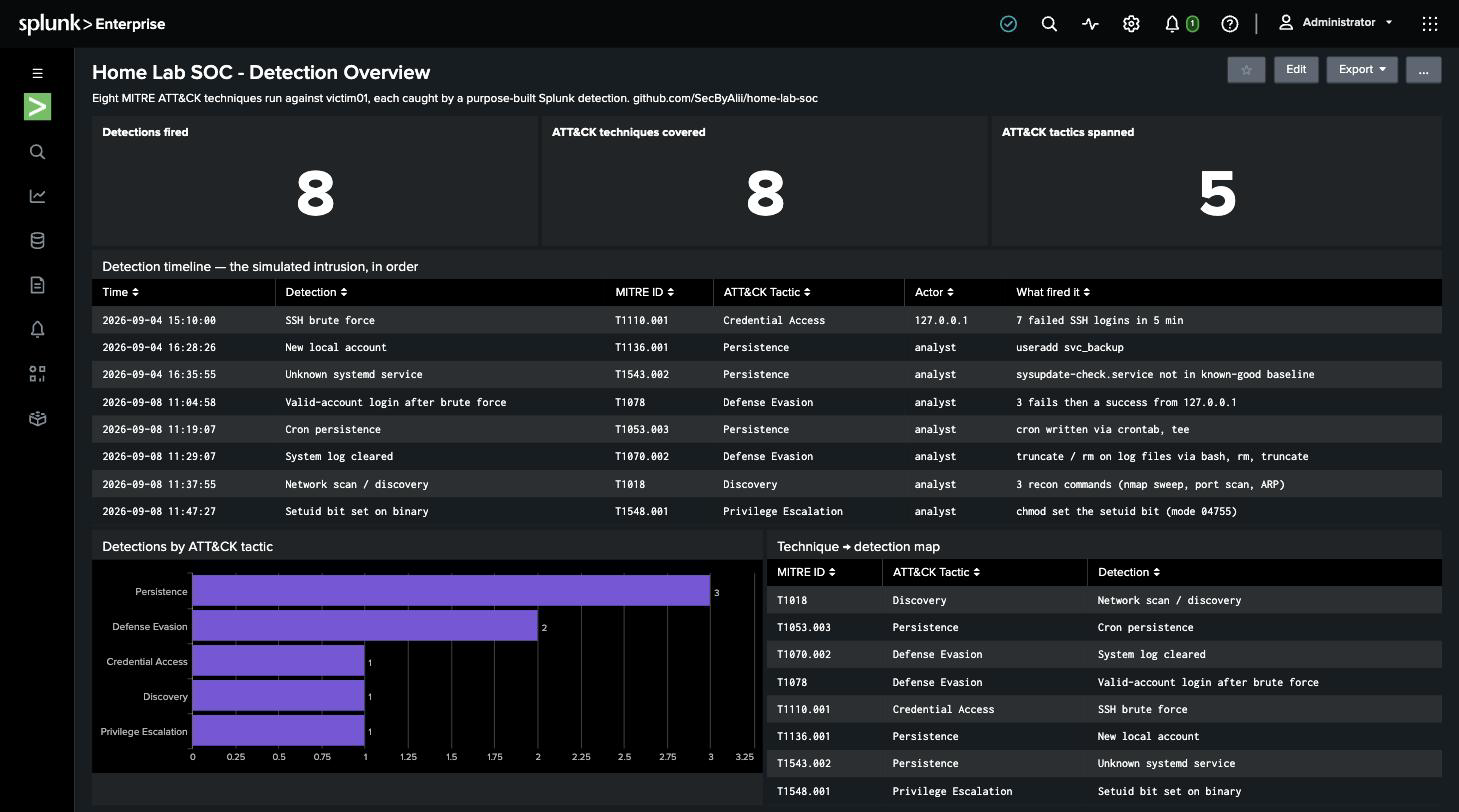
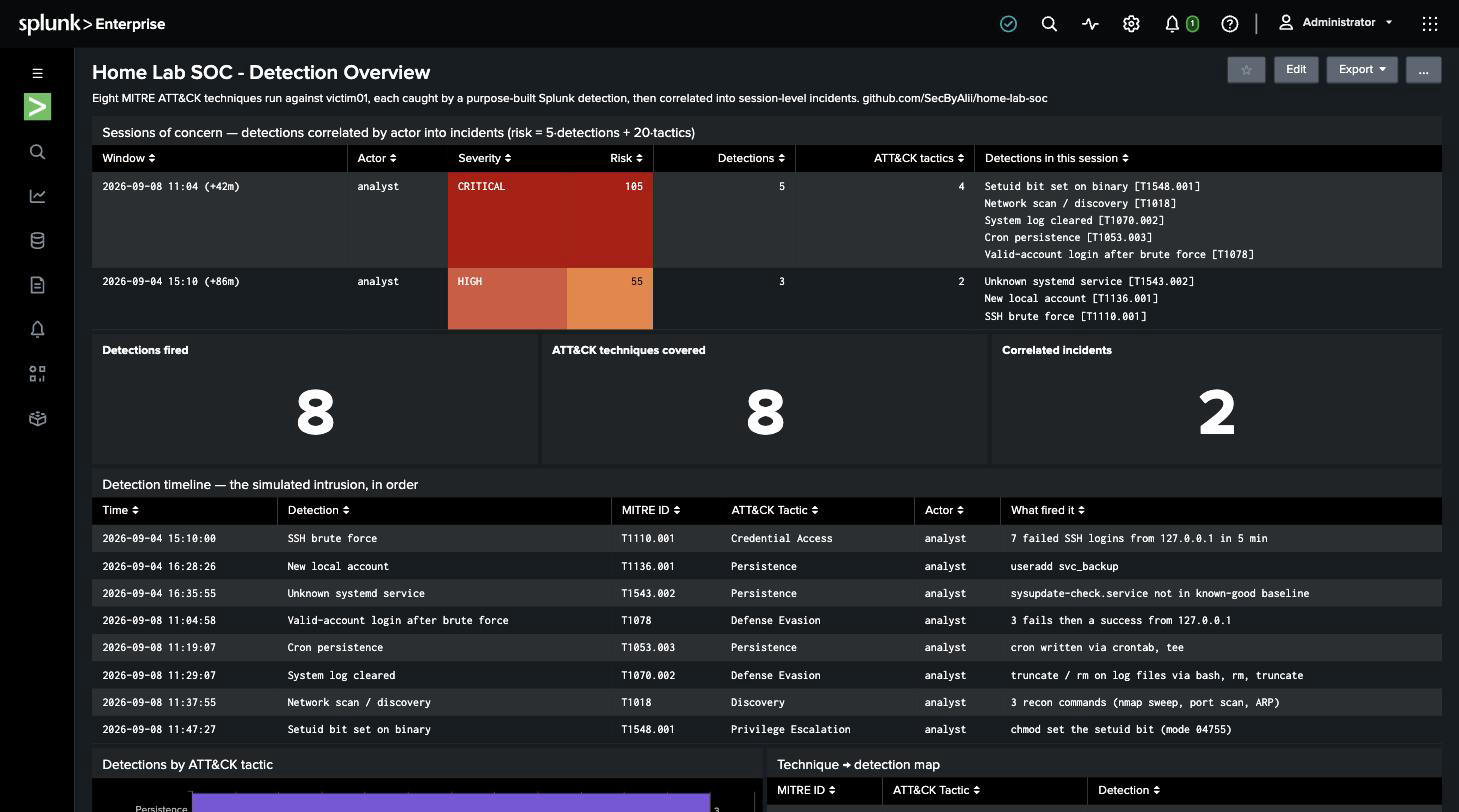
Add session-level correlation layer
Two macros in dashboards/macros.conf: soc_detections normalises all 8 detections to
one row each; soc_incidents groups them by actor into 90-min sessions and scores each
5*detections + 20*distinct ATT&CK tactics. Against the lab data the 8 raw detections
collapse into 2 scored incidents (CRITICAL 5-detection chain, HIGH 3-detection one),
shown as a new Sessions of concern panel at the top of the dashboard. Brute-force
detection re-keyed onto the targeted account so auth.log and auditd activity join into
one incident. Full design notes in detections/session-correlation.md.

Claude-Session: https://claude.ai/code/session_01Y2KUDnJzRMMDK5Fm9YPC8J

diff --git a/detections/session-correlation.md b/detections/session-correlation.md
@@ -1,0 +1,92 @@
+# Correlation layer — detections → session-level incidents
+
+**What it does:** rolls the eight single-signal detections up into per-actor sessions and
+scores each session by how much of the ATT&CK matrix it touches. Three brute-force
+alerts and a new-account alert from one login session aren't four things to triage —
+they're one intrusion.
+
+**Depends on:** the eight detections in this folder, exposed through the
+`` `soc_detections` `` macro (`dashboards/macros.conf`), which normalises every
+detection to one row: `_time`, `sig` (`"Name [Txxxx]"`), `detection`, `mitre`,
+`tactic`, `actor`, `detail`.
+
+## The macros
+
+```
+`soc_detections`   → one row per detection hit across all 8 techniques
+`soc_incidents`    → `soc_detections` collapsed into scored per-actor sessions
+```
+
+`soc_incidents` in full:
+
+```spl
+`soc_detections`
+| transaction actor maxpause=90m mvlist=sig
+| eval detections=eventcount,
+       tactics=mvcount(mvdedup(tactic)),
+       techniques=mvcount(mvdedup(mitre))
+| eval risk_score=(detections*5)+(tactics*20)
+| eval severity=case(tactics>=4 OR risk_score>=90,"CRITICAL",
+                     detections>=2,"HIGH",
+                     true(),"LOW")
+| eval first_seen=_time, span_min=round(duration/60)
+| table first_seen span_min actor severity risk_score detections tactics techniques sig
+| sort - risk_score
+```
+
+## Design decisions
+
+- **Group by `actor`, not audit `ses`.** The attack ran across a dozen SSH sessions
+  (`ses=14,15,16,24,36,40,…`). Session id fragments the intrusion; the actor doesn't.
+  `transaction … maxpause=90m` then stitches an actor's activity into one incident as
+  long as gaps stay under 90 minutes, and splits genuinely separate intrusions (the
+  Sept 4 and Sept 8 runs land as two incidents, days apart).
+
+- **Normalise the actor across log sources.** `auth.log` identifies a brute force by
+  *source IP*; `auditd` identifies everything else by *login user* (`AUID`). Left alone,
+  "`127.0.0.1` guessed the password" and "`analyst` then created an account" never join.
+  The brute-force branch is rewritten to key on the **targeted account** instead of the
+  source IP, so the guessing and the post-compromise activity land in the same incident
+  — which is the correlation that matters.
+
+- **Score on ATT&CK breadth, not volume.** `risk = 5·detections + 20·tactics`. A session
+  that touches Persistence *and* Defense Evasion *and* Privilege Escalation is worse than
+  one that fired the same detection five times. Distinct tactics is the multiplier.
+
+- **Severity from tactic count.** `CRITICAL` at 4+ tactics (or risk ≥ 90), `HIGH` at 2+
+  detections, `LOW` for a lone signal. A single brute-force alert with no follow-on is
+  `LOW` — watch it, don't page on it.
+
+## Result against the lab data
+
+| Session | Actor | Severity | Risk | Detections | Tactics |
+|---|---|---|---|---|---|
+| 2026-09-08 11:04 (+42m) | analyst | **CRITICAL** | 105 | 5 | 4 |
+| 2026-09-04 15:10 (+86m) | analyst | **HIGH** | 55 | 3 | 2 |
+
+The Sept 8 session — valid-account login → cron persistence → log clearing → network
+scan → setuid abuse — reads as a full intrusion chain in one row. The Sept 4 session —
+brute force → new account → systemd persistence — is the earlier, narrower one.
+
+Rendered as the **Sessions of concern** panel at the top of the dashboard
+(`dashboards/soc_overview.xml`), severity-coloured.
+
+## False positives to expect
+
+- **A busy admin session.** A sysadmin who legitimately adds a user, edits cron, and
+  restarts a service in one sitting will score `HIGH` here. The per-detection false
+  positives all still apply — this layer inherits them and can amplify them. It's a
+  triage aid, not a verdict.
+- **`maxpause` is a guess.** 90 minutes fits this lab. A real environment tunes it to
+  how its analysts actually work, and a patient attacker who spaces actions hours apart
+  defeats a fixed pause entirely — `transaction` is the wrong tool at that point;
+  a rolling per-actor risk score with decay is the real answer.
+
+## Honest gap
+
+- **No cross-actor pivot.** If the attacker brute-forces `analyst`, then `su`s to a
+  second account and continues, this treats it as two incidents. Following the pivot
+  needs a process-lineage / login-chain graph, not `transaction`.
+- **Risk weights are hand-set.** `5` and `20` produce a sane ordering on this data set
+  but aren't calibrated against anything. A real deployment would derive them from how
+  often each tactic combination turns out to be a true positive.

diff --git a/WRITEUP.md b/WRITEUP.md
@@ -201,24 +201,61 @@ them without digging:
 - **Allowlists are snapshots.** `known_services.csv` (detection 3) and the implicit
   known-good sets elsewhere are point-in-time captures of one hand-built box. They work
   here because nothing else changed between snapshot and attack.
-- **Detections are single-signal.** Each fires on one observation. The obvious next step
-  is correlating them — a brute force *then* a new account *then* a cron job from the
-  same session is an incident, not three separate alerts.
+- **Correlation inherits every per-detection false positive.** The session layer (below)
+  is a triage aid, not a verdict — a busy admin session scores `HIGH` on it. And its
+  90-minute session window is a guess that a patient attacker defeats by spacing actions
+  out; a rolling risk score with decay is the real answer.
 
 ---
 
+## Correlation — from detections to incidents
+
+The eight detections are single-signal: each fires on one observation, independently.
+Three brute-force alerts and a new-account alert from one login session aren't four
+things to triage — they're one intrusion. A correlation layer rolls them up.
+
+Everything runs through two macros (`dashboards/macros.conf`):
+
+- **`` `soc_detections` ``** normalises all eight detections to one row each — `_time`,
+  `sig`, `mitre`, `tactic`, `actor`, `detail`. The dashboard's every panel is built on
+  this.
+- **`` `soc_incidents` ``** collapses that into per-actor sessions
+  (`transaction actor maxpause=90m`) and scores each `5·detections + 20·distinct
+  tactics`, with severity from the tactic count.
+
+Two design decisions did the real work:
+
+- **Normalising the actor across log sources.** `auth.log` names a brute force by source
+  IP; `auditd` names everything else by login user (`AUID`). Left alone, "`127.0.0.1`
+  guessed the password" and "`analyst` then created an account" never join. Re-keying the
+  brute-force detection on the *targeted account* puts the guessing and the
+  post-compromise activity in the same incident.
+- **Scoring on ATT&CK breadth, not volume.** A session that touches Persistence *and*
+  Defense Evasion *and* Privilege Escalation is worse than one that fired the same rule
+  five times. Distinct tactics is the multiplier.
+
+Against the lab data the eight raw detections collapse into two incidents:
+
+| Session | Actor | Severity | Risk | Detections | Tactics |
+|---|---|---|---|---|---|
+| 2026-09-08 11:04 (+42m) | analyst | **CRITICAL** | 105 | 5 | 4 |
+| 2026-09-04 15:10 (+86m) | analyst | **HIGH** | 55 | 3 | 2 |
+
+Full design notes and false positives: `detections/session-correlation.md`.
+
 ## Dashboard
 
-All eight detections are wired into one Splunk view (`dashboards/soc_overview.xml`,
-screenshot in the README): the simulated intrusion as a chronological timeline, each row
-ATT&CK-mapped, with single-value coverage counts and a by-tactic breakdown. It runs the
-real detection logic — one unioned base search, one branch per detection — so the
-dashboard is the detection library, not a separate reporting layer.
+One Splunk view (`dashboards/soc_overview.xml`, screenshot in the README): **sessions of
+concern** at the top from `` `soc_incidents` ``, then the simulated intrusion as a
+chronological ATT&CK-mapped timeline, coverage counters, and a by-tactic breakdown.
+Every panel runs the real macros — the dashboard *is* the detection library and its
+correlation layer, not a separate reporting build.
 
 ## What's next
 
-- Correlate the existing detections into session-level incident logic — a brute force
-  *then* a new account *then* a cron job from one session is an incident, not three
-  alerts.
+- Replace the `transaction` session window with a rolling per-actor risk score with
+  decay — defeats the "space actions out" evasion a fixed `maxpause` can't.
+- Follow cross-actor pivots (brute-force `analyst` → `su` to another account) with a
+  login-chain graph rather than treating them as separate incidents.
 - Add discovery / defense-evasion breadth toward a 10+ technique library.
 - Replace snapshot allowlists with first-seen searches over a rolling window.

diff --git a/README.md b/README.md
@@ -6,9 +6,9 @@ against the **real logs the attack produced**. Every detection is mapped to MITR
 and ships with the false positives it will produce and an honest note on what it doesn't
 catch.
 
-**Status:** first-pass build complete — 8 techniques, 8 detections, a
-[writeup](WRITEUP.md), and a dashboard. Extending the library toward broader ATT&CK
-coverage is ongoing.
+**Status:** first-pass build complete — 8 techniques, 8 detections, a session-level
+correlation layer, a [writeup](WRITEUP.md), and a dashboard. Extending the library
+toward broader ATT&CK coverage is ongoing.
 
 ## Why this exists
 
@@ -24,10 +24,13 @@ Full narrative, method, and three detailed detection walk-throughs: **[WRITEUP.m
 
 ![Home Lab SOC — Detection Overview dashboard](screenshots/dashboard-detection-overview.png)
 
-Every detection wired into one Splunk view: the simulated intrusion in chronological
-order, each row MITRE ATT&CK-mapped, plus coverage counts and a by-tactic breakdown. It
-runs the real detection logic — one unioned search, one branch per detection — not a
-separate reporting layer. Source XML: [`dashboards/soc_overview.xml`](dashboards/soc_overview.xml).
+Every detection wired into one Splunk view: **sessions of concern** at the top
+(detections correlated into scored incidents), then the simulated intrusion in
+chronological order, each row MITRE ATT&CK-mapped, plus coverage counts and a by-tactic
+breakdown. It runs the real detection logic — the `` `soc_detections` `` /
+`` `soc_incidents` `` macros in [`dashboards/macros.conf`](dashboards/macros.conf) — not
+a separate reporting layer. Source XML:
+[`dashboards/soc_overview.xml`](dashboards/soc_overview.xml).
 
 ## Detection library
 
@@ -49,6 +52,16 @@ that's decided.
 Each detection file carries the SPL, the result against the real simulated attack, the
 false positives to expect, and an "honest gap" section naming what the lab version
 doesn't cover.
+
+### Correlation layer
+
+The eight detections are single-signal — each fires independently. A
+[correlation layer](detections/session-correlation.md) rolls them up: it normalises
+every detection to one row (`` `soc_detections` ``), groups by actor into 90-minute
+sessions, and scores each session `5·detections + 20·distinct ATT&CK tactics`
+(`` `soc_incidents` ``). Against the lab data the eight raw detections collapse into two
+scored incidents — a **CRITICAL** five-detection chain and a **HIGH** three-detection
+one — shown as the top panel of the dashboard.
 
 ## Architecture
 
@@ -86,9 +99,9 @@ record of the other clears in the same run; the forwarded copy is the one that s
 
 - `setup/` — exact steps to reproduce the lab, in build order
 - `attack-simulations/` — each technique run, why it was picked, and the log evidence it produced
-- `detections/` — one file per detection (SPL, result, false positives, honest gap);
-  `detections/audit-rules/` holds the auditd rule sets
-- `dashboards/` — Splunk dashboard source XML
+- `detections/` — one file per detection (SPL, result, false positives, honest gap),
+  plus `session-correlation.md`; `detections/audit-rules/` holds the auditd rule sets
+- `dashboards/` — Splunk dashboard source XML and the search macros it runs on
 - `screenshots/` — Splunk catching each simulated attack, plus the dashboard
 - `WRITEUP.md` — the portfolio writeup
 
